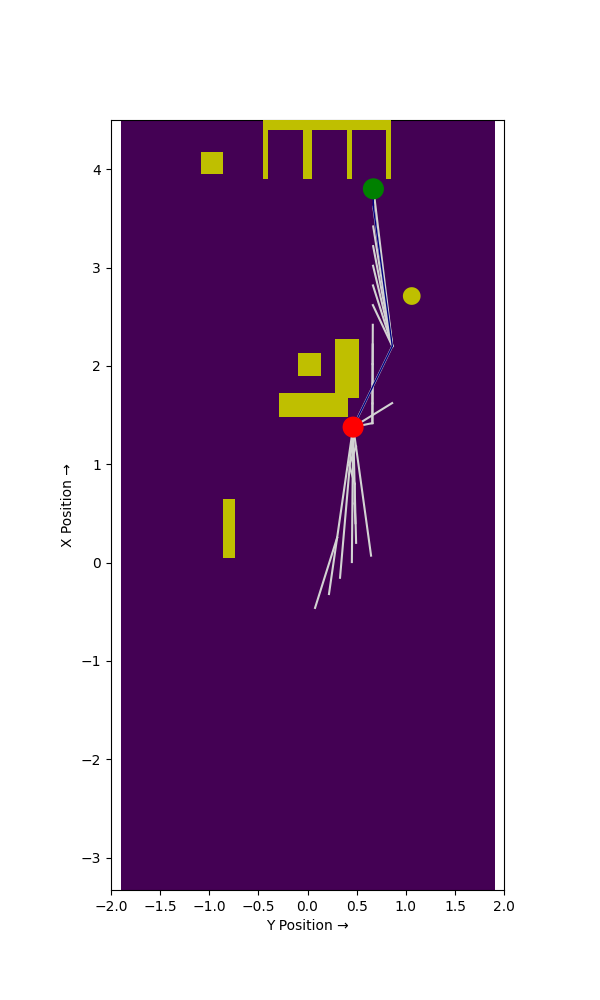
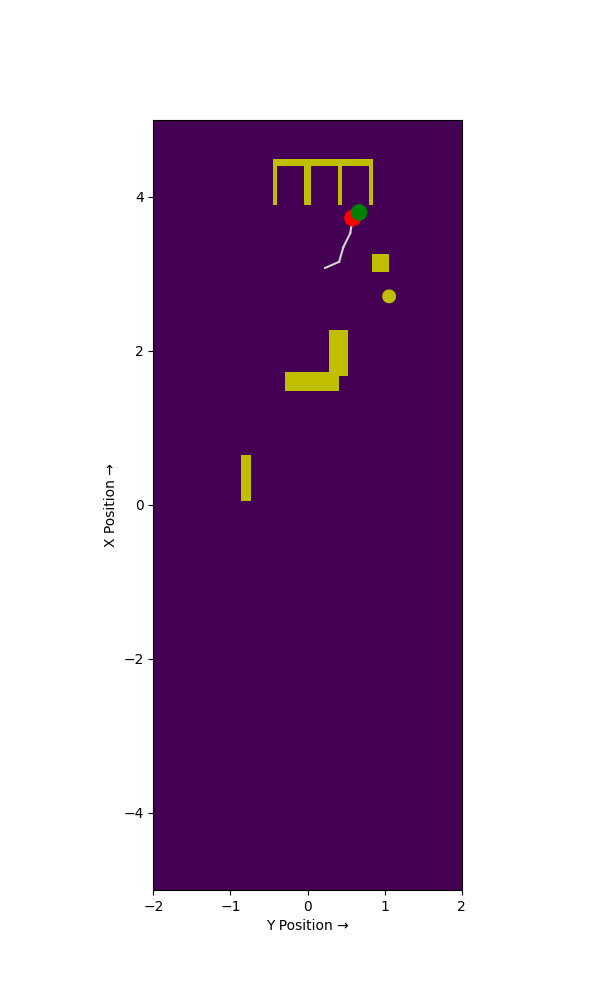
fixing bugs

diff --git a/4_main.py b/4_main.py
@@ -25,10 +25,10 @@ t_pos1, t_rot1, t_rad1 = [0,0,0], 0, 0
 t_pos2, t_rot2, t_rad2 = [0,0,0], 0, 0
 t_pos3, t_rot3, t_rad3 = [0,0,0], 0, 0
 t_pos, t_rot, t_rad = [0,0,0], 0, 0
-base_pos2 = [3.7, 0.09, 0.28]
+base_pos2 = [3.8, 0.09, 0.28]
 base_pos3 = [3.8, 0.09, -0.14]  # Define a second base position for the second cube
 base_pos1 = [3.8, 0.09, 0.67]  # Define a third base position for the third cube
-bases=[base_pos1, base_pos2,  base_pos3]  # List of base positions for the cubes
+bases=[base_pos1, base_pos2,base_pos3]  # List of base positions for the cubes
 y_base = [0.67, 0.28, -0.09]  # List of base positions for the cubes
 z = 1  # Initialize a global variable for iteration count
 w=1
@@ -127,7 +127,7 @@ def turnToTarget(is_cube = True, curr_t_pos = t_pos):
         if abs(normalized_angle) < 0.07:
             send_stop_request()
             break
-        elif normalized_angle < 0:
+        elif normalized_angle < 0.0:
             if not turning_state == left:
                 turning_state = left
                 send_lift_request(60)
@@ -198,7 +198,7 @@ def GoBack( ):
 # Function get data where the  robot car and where the cube is and calculate the path to the cube
 def get_path_to_goal(start_pos, goal_pos, cube_obstacles=[]):
     global z  # Use the global variable z
-    json_file_path = "our_code/path_algorithms/map1.json"
+    json_file_path = "path_algorithms/map1.json"
     planning_env = MapEnvironment(json_file=json_file_path)
     # Initialize the map environment with the JSON file path
     planning_env.start = np.array([start_pos[0], start_pos[2]])  # Use x and y coordinates for the start position
@@ -255,7 +255,7 @@ def go_to_goal(goal_pos):
                 print("continue")
                 finshed = False
                 break
-            if dist(c_pos[0], t_pos[0], c_pos[2], t_pos[2]) > 0.15:
+            if dist(c_pos[0], t_pos[0], c_pos[2], t_pos[2]) > 0.2:
                 print("NNNNNNNNNNNNNNED TO FIX")
                 return []
                 
@@ -303,7 +303,7 @@ try:
         # GoBack()
         extract_order(word) 
         print(arr)
-        for i in range(1):
+        for i in range(3):
             y = arr[i]  # Get the current target ID from the array
             out_limits(c_pos, t_pos)
             print("Current target ID:", y)
@@ -312,7 +312,10 @@ try:
             while len(plan) == 0:
                 get_path_to_target()  # Get the path to the target position
                 send_servo_request(80)
-                plan = go_to_goal(bases[i])  # Move to the base position first
+                plan = go_to_goal(bases[i])  # Move to the base position firs
+                print("aaaaaaaaaaaaaaaaaaaaaaaaaaaaaaaaaaaaaa")
+                print("plan:", plan)
+            print("Plan:", plan)
             turnToTarget(False, [plan[-1][0]+0.3,0.09, y_base[i]])
             GoToTarget(False, [plan[-1][0]+0.3,0.09, y_base[i]])  # Move slightly forward after reaching the target
             send_servo_request(30)

diff --git a/our_code/my_app2.py b/our_code/my_app2.py
@@ -17,7 +17,7 @@ def display_image(image_path, target_width=400):
             resized_image = image.resize((target_width, target_height), Image.LANCZOS)
             return resized_image
         except Exception as e:
-            st.error(f"Error loading image: {e}")
+            pass
     return None
 
 
@@ -73,7 +73,7 @@ st.title('Simple Streamlit Example')
 
 
 def run_script(output_dict, word):
-    result = subprocess.run(["python", "our_code/4_main_for_web.py", word], capture_output=True, text=True)
+    result = subprocess.run(["python", "./4_main_for_web.py", word], capture_output=True, text=True, timeout=40)
     output_dict["returncode"] = result.returncode
     output_dict["stdout"] = result.stdout
     output_dict["stderr"] = result.stderr
@@ -83,14 +83,12 @@ def run_script(output_dict, word):
 def stop_all():
     return
 
-def submit_botton():
+def submit_button():
     st.success(f'Assembling the word: {st.session_state.word}!')
 
     timer_placeholder = st.empty()
     image_placeholder = st.empty()
     st.session_state.is_image = True
-    st.session_state.output_placeholder = st.empty()
-    st.session_state.error_placeholder = st.empty()
      # Dictionary to share output state
     output = {"finished": False, "returncode": None, "stdout": "", "stderr": ""}
 
@@ -99,13 +97,12 @@ def submit_botton():
     thread.start()
 
     start_time = time.time()
-    target_width = 400
     # Keep updating timer and image
     while not output["finished"]:
         elapsed = time.time() - start_time
         timer_placeholder.write(f"Time elapsed: {elapsed:.1f} seconds")
         # Reload and display the image safely
-        display_image()
+        display_image("./map-RRTfor_web.png")
     time.sleep(0.3)  # Update every 0.3 seconds
     elapsed = time.time() - start_time
     timer_placeholder.write(f"Finished in {elapsed:.1f} seconds")
@@ -130,9 +127,10 @@ right.button("T", on_click=click_t, disabled=st.session_state.clicked_t, use_con
 st.session_state.enable_submit = not (st.session_state.clicked_i and st.session_state.clicked_o and st.session_state.clicked_t)
 # Submit and Reset buttons
 submit_col, stop_col, reset_col = st.columns(3)
-submit_col.button("Submit", disabled=st.session_state.enable_submit, on_click=submit_botton)
+submit_col.button("Submit", on_click=submit_button)
+    
 
-reset_col.button("Reset",  disabled=st.session_state.clicked_submit, on_click=reset_all)
+reset_col.button("Reset", on_click=reset_all)
 if stop_col.button("Stop", on_click=stop_all): 
     is_Stopped = True
 

diff --git a/path_algorithms/MapEnvironment.py b/path_algorithms/MapEnvironment.py
@@ -225,7 +225,7 @@ class MapEnvironment(object):
         plt.imshow(
             back_img.T,  # Transposed to reflect axis swap
             origin='lower',
-            extent=(self.ylimit[0], self.ylimit[1], self.xlimit[0], self.xlimit[1]),
+            extent=(-2, 2, -5, 5),
             zorder=0
         )
 
@@ -267,7 +267,7 @@ class MapEnvironment(object):
         plt.xlabel('Y Position →')
         plt.ylabel('X Position →')
         plt.xlim(-2, 2)
-        plt.ylim(-3.33, 4.5)
+        plt.ylim(-5, 5)
         #plt.gca().set_aspect('auto')
         plt.gca().set_aspect('equal', adjustable='box')
 
@@ -284,9 +284,9 @@ class MapEnvironment(object):
         '''
         # create figure and add background
         plt.figure()
-        back_img = np.zeros((self.ylimit[1]+1, self.xlimit[1]+1))
+        back_img = np.zeros((2, 5))
         plt.imshow(back_img, origin='lower', zorder=0,
-                   extent=(self.xlimit[0], self.xlimit[1], self.ylimit[0], self.ylimit[1]))
+                   extent=(-5, 5, -2, 2))
 
         return plt
 
